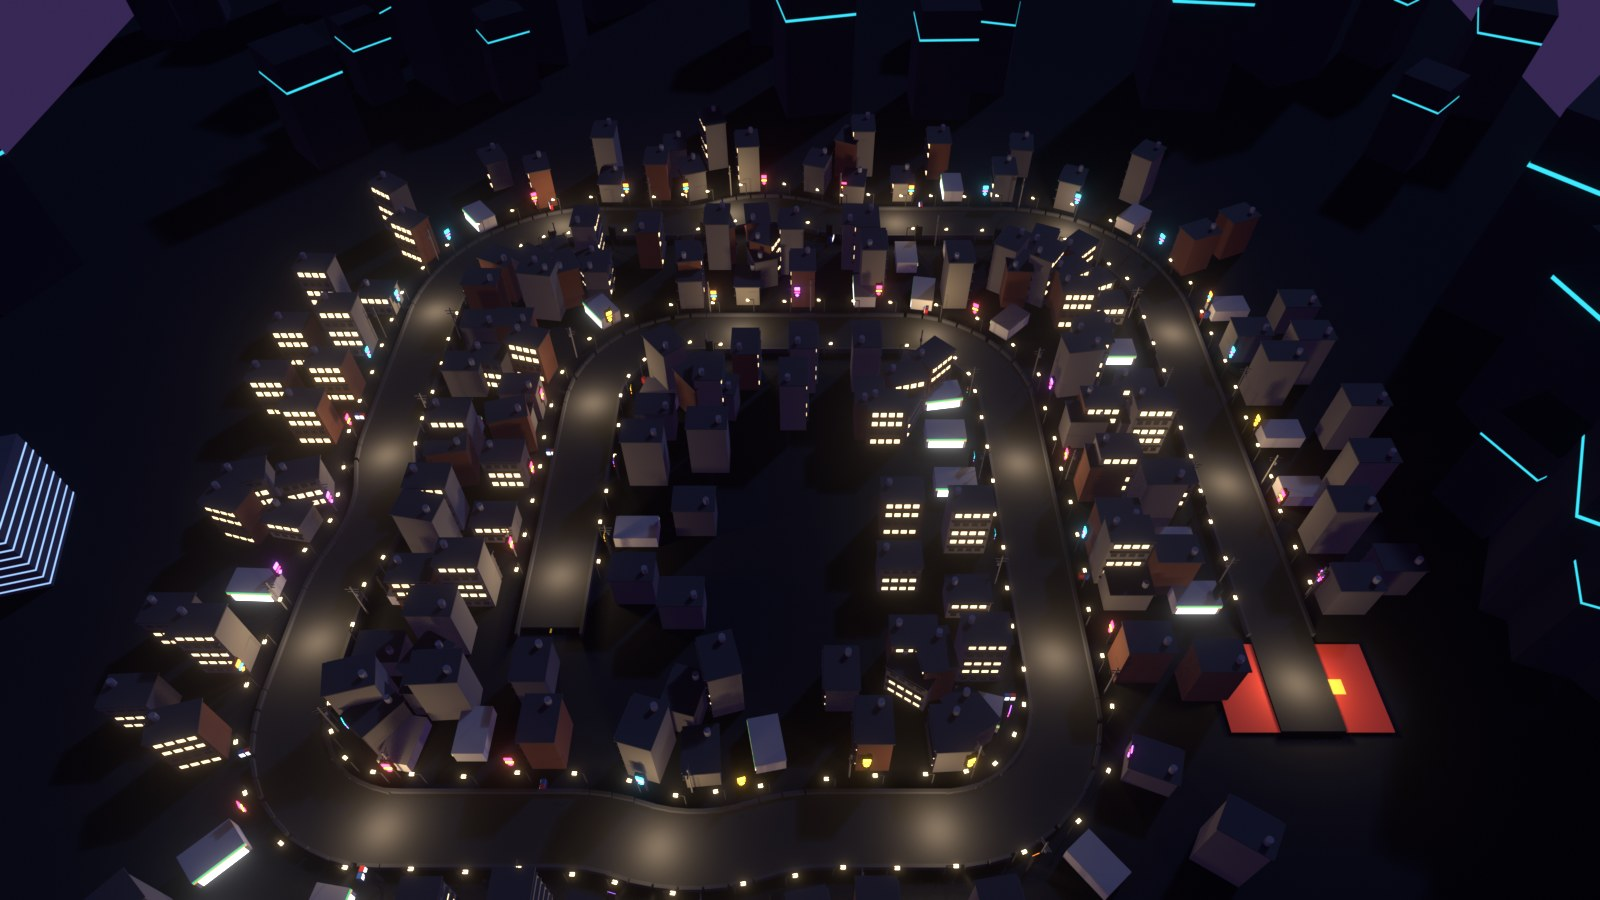
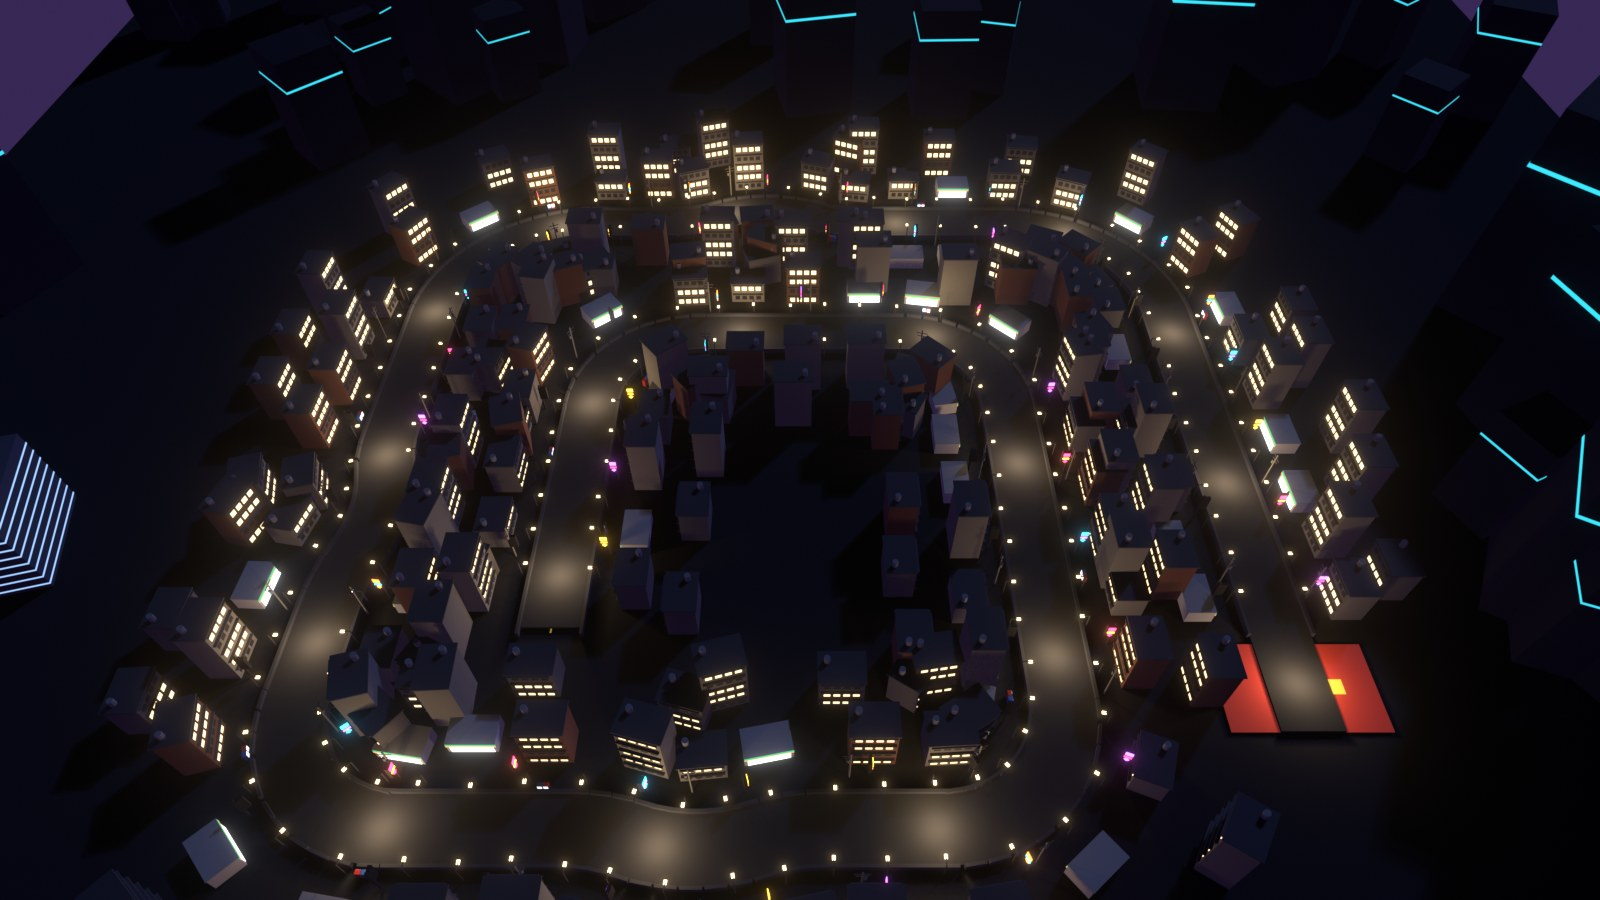
World 2: full-size Blender renders of all 10 tracks and the approval page (assets/world2_draft/index.html)

diff --git a/assets/world2_draft/index.html b/assets/world2_draft/index.html
@@ -1,0 +1,76 @@
+<!doctype html><meta charset="utf-8"><title>World 2 track drafts</title><style>body{font:14px system-ui;background:#111;color:#eee;margin:24px}h2{margin:28px 0 6px}img{width:32%;margin:.3%;border-radius:6px}p{color:#aaa;margin:2px 0 8px}</style>
+<h1>World 2: Blender drafts for approval</h1><p>Design doc 4.47. Each track: overview, four runner views (6/33/62/90% of the road), side view. Rendered in Blender (EEVEE) from tools/blender/world2. Reply per track: approve, or what to change.</p>
+<h2>Plaza gate (World 1 spawn)</h2>
+<img src="gate/01_both_front.jpg">
+<img src="gate/02_locked_close.jpg">
+<img src="gate/03_three_quarter.jpg">
+<h2>Track 1: Devil Hunter Tokyo</h2><p>Saw Man &middot; enemy Katanah Man &middot; biome key DevilTokyo</p>
+<img src="track01_DevilTokyo/00_overview.jpg">
+<img src="track01_DevilTokyo/01_run_6.jpg">
+<img src="track01_DevilTokyo/02_run_33.jpg">
+<img src="track01_DevilTokyo/03_run_62.jpg">
+<img src="track01_DevilTokyo/04_run_90.jpg">
+<img src="track01_DevilTokyo/05_side.jpg">
+<h2>Track 2: Demon King's Castle</h2><p>Solo Levelup &middot; enemy Barran &middot; biome key DemonCastle</p>
+<img src="track02_DemonCastle/00_overview.jpg">
+<img src="track02_DemonCastle/01_run_6.jpg">
+<img src="track02_DemonCastle/02_run_33.jpg">
+<img src="track02_DemonCastle/03_run_62.jpg">
+<img src="track02_DemonCastle/04_run_90.jpg">
+<img src="track02_DemonCastle/05_side.jpg">
+<h2>Track 3: Ruined City Zed</h2><p>One Punch &middot; enemy Garoo &middot; biome key RuinedCityZ</p>
+<img src="track03_RuinedCityZ/00_overview.jpg">
+<img src="track03_RuinedCityZ/01_run_6.jpg">
+<img src="track03_RuinedCityZ/02_run_33.jpg">
+<img src="track03_RuinedCityZ/03_run_62.jpg">
+<img src="track03_RuinedCityZ/04_run_90.jpg">
+<img src="track03_RuinedCityZ/05_side.jpg">
+<h2>Track 4: Haunted Tunnel Road</h2><p>Dandadan &middot; enemy Turbo Grammy &middot; biome key HauntedTunnel</p>
+<img src="track04_HauntedTunnel/00_overview.jpg">
+<img src="track04_HauntedTunnel/01_run_6.jpg">
+<img src="track04_HauntedTunnel/02_run_33.jpg">
+<img src="track04_HauntedTunnel/03_run_62.jpg">
+<img src="track04_HauntedTunnel/04_run_90.jpg">
+<img src="track04_HauntedTunnel/05_side.jpg">
+<h2>Track 5: Wrecked Tachikawa</h2><p>Kaiju No. 8 &middot; enemy Kaijo No. 9 &middot; biome key KaijuBase</p>
+<img src="track05_KaijuBase/00_overview.jpg">
+<img src="track05_KaijuBase/01_run_6.jpg">
+<img src="track05_KaijuBase/02_run_33.jpg">
+<img src="track05_KaijuBase/03_run_62.jpg">
+<img src="track05_KaijuBase/04_run_90.jpg">
+<img src="track05_KaijuBase/05_side.jpg">
+<h2>Track 6: Elven Ruin Plains</h2><p>Frieren &middot; enemy Ora &middot; biome key ElvenPlains</p>
+<img src="track06_ElvenPlains/00_overview.jpg">
+<img src="track06_ElvenPlains/01_run_6.jpg">
+<img src="track06_ElvenPlains/02_run_33.jpg">
+<img src="track06_ElvenPlains/03_run_62.jpg">
+<img src="track06_ElvenPlains/04_run_90.jpg">
+<img src="track06_ElvenPlains/05_side.jpg">
+<h2>Track 7: Ant Island</h2><p>Solo Levelup &middot; enemy Berru &middot; biome key AntIsland</p>
+<img src="track07_AntIsland/00_overview.jpg">
+<img src="track07_AntIsland/01_run_6.jpg">
+<img src="track07_AntIsland/02_run_33.jpg">
+<img src="track07_AntIsland/03_run_62.jpg">
+<img src="track07_AntIsland/04_run_90.jpg">
+<img src="track07_AntIsland/05_side.jpg">
+<h2>Track 8: Monster Den</h2><p>One Punch &middot; enemy Orochy &middot; biome key MonsterDen</p>
+<img src="track08_MonsterDen/00_overview.jpg">
+<img src="track08_MonsterDen/01_run_6.jpg">
+<img src="track08_MonsterDen/02_run_33.jpg">
+<img src="track08_MonsterDen/03_run_62.jpg">
+<img src="track08_MonsterDen/04_run_90.jpg">
+<img src="track08_MonsterDen/05_side.jpg">
+<h2>Track 9: Golden City</h2><p>Frieren &middot; enemy Machto &middot; biome key GoldenCity</p>
+<img src="track09_GoldenCity/00_overview.jpg">
+<img src="track09_GoldenCity/01_run_6.jpg">
+<img src="track09_GoldenCity/02_run_33.jpg">
+<img src="track09_GoldenCity/03_run_62.jpg">
+<img src="track09_GoldenCity/04_run_90.jpg">
+<img src="track09_GoldenCity/05_side.jpg">
+<h2>Track 10: Hell's Gate</h2><p>Saw Man &middot; enemy Makina &middot; biome key HellGate</p>
+<img src="track10_HellGate/00_overview.jpg">
+<img src="track10_HellGate/01_run_6.jpg">
+<img src="track10_HellGate/02_run_33.jpg">
+<img src="track10_HellGate/03_run_62.jpg">
+<img src="track10_HellGate/04_run_90.jpg">
+<img src="track10_HellGate/05_side.jpg">

diff --git a/current_progress.md b/current_progress.md
@@ -225,8 +225,9 @@
 221. 2026-11-23 — Alex Nguyen — World 2 Phase A on feature/alex/world2-place: design doc 4.47 and WORLD2_SPEC, WorldConfig/WorldSave (World 2 progress under Worlds.W2), a locked World 2 gate in the plaza, /world1 and /world2 admin travel, 10 World 2 track routes, and the Blender-first draft pipeline (tools/blender/world2) with the Track 1 Devil Hunter Tokyo renders.
 222. 2026-11-23 — Alex Nguyen — World 2: per-world enemy names (NpcConfig.World2) and Tracks panel copy (TrackCards World 2 table), World 1 tables unchanged.
 223. 2026-11-23 — Alex Nguyen — World 2 gate Blender draft (tools/blender/world2/build_gate.py, locked and open renders) and the matching SpawnArea tweak: a dim sealed portal with thicker chains and padlock in front.
+224. 2026-11-23 — Alex Nguyen — World 2: all 10 track biomes built in Blender (tools/blender/world2/biomes, kit facing and sky fixes) and rendered at full size through the Blender MCP; approval page assets/world2_draft/index.html (gate plus 6 shots per track).
 
 ## What's next
-**Render World 2 Tracks 2-10 in Blender and give the owner the full approval set of all 10 tracks.**
+**Owner reviews assets/world2_draft/index.html and approves or marks changes per track; then the approved drafts become game BiomeThemes and asset uploads.**
 
-**Why this is next:** the owner rules that every World 2 track is approved from Blender renders before it goes in the game; the game biome themes, asset uploads and Studio screenshots all wait on that approval.
+**Why this is next:** the owner rules that nothing of World 2 goes in the game before its Blender draft is approved; the game biomes, uploads and Studio screenshots all wait on that.
